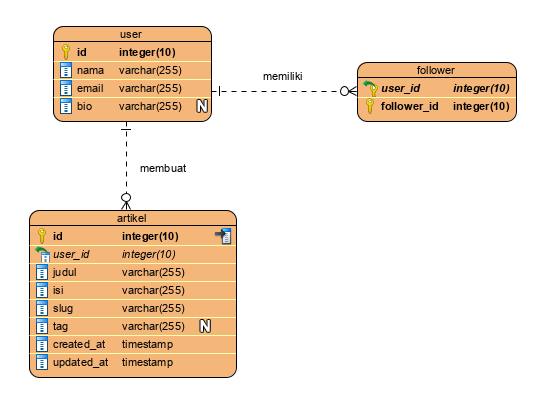
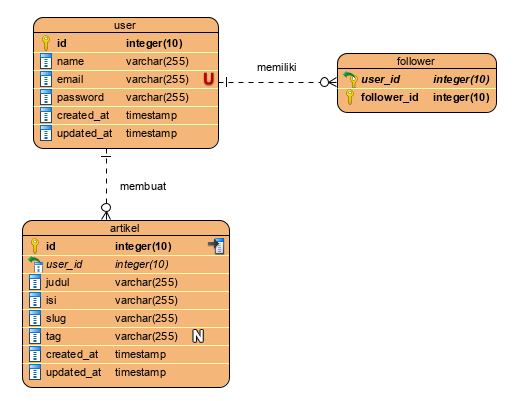
Create migration and model

Changed region(s): [[0.0311, 0.0299, 0.5914, 0.9875], [0.5914, 0.1197, 0.965, 0.3292]]

diff --git a/app/Http/Controllers/ArtikelController.php b/app/Http/Controllers/ArtikelController.php
@@ -1,0 +1,76 @@
+<?php
+
+namespace App\Http\Controllers;
+
+use App\Artikel;
+use Illuminate\Http\Request;
+
+class ArtikelController extends Controller
+{
+
+    public function index()
+    {
+        $data = Artikel::get_all();
+        return view('pages.index', compact('data'));
+    }
+    public function show($id)
+    {
+        $data = Artikel::get($id);
+        return view('pages.show', compact('data'));
+    }
+    public function destroy($id)
+    {
+        Artikel::delete($id);
+        return redirect('/artikel');
+    }
+    public function edit($id)
+    {
+        $data = Artikel::get($id);
+        return view('pages.edit_artikel', compact('data'));
+    }
+    public function update(Request $request, $id)
+    {
+        $data = $request->validate([
+            'judul' => ['required', 'max:255'],
+            'isi' => ['required', 'max:255'],
+            'tag' => ['required', 'max:255'],
+        ]);
+        $take = strtolower($data['judul']);
+        $split = explode(" ", $take);
+        $slug = $split[0];
+        if (count($split) > 1) {
+            for ($i = 1; $i < count($split); $i++) {
+                $slug .= "-" . $split[$i];
+            }
+        }
+        $data['slug'] = $slug;
+        $data = Artikel::edit($data, $id);
+        return redirect('/artikel');
+    }
+    public function create()
+    {
+        return view('pages/create_artikel');
+    }
+    public function store(Request $request)
+    {
+        $data = $request->validate([
+            'judul' => ['required', 'max:255'],
+            'isi' => ['required', 'max:255'],
+        ]);
+        $data = $request->all();
+        unset($data["_token"]);
+        $take = strtolower($data['judul']);
+        $split = explode(" ", $take);
+        $slug = $split[0];
+        if (count($split) > 1) {
+            for ($i = 1; $i < count($split); $i++) {
+                $slug .= "-" . $split[$i];
+            }
+        }
+        $data['slug'] = $slug;
+        $item = Artikel::store($data);
+        if ($item) {
+            return redirect('/artikel');
+        }
+    }
+}

diff --git a/routes/web.php b/routes/web.php
@@ -12,13 +12,13 @@
 */
 
 Route::get('/', function () {
-    return view('welcome');
+    return view('pages.img_show');
 });
 
-Route::get('/items/create', 'ItemController@create'); // menampilkan halaman form
-Route::post('/items', 'ItemController@store'); // menyimpan data
-Route::get('/items', 'ItemController@index'); // menampilkan semua
-Route::get('/items/{id}', 'ItemController@show'); // menampilkan detail item dengan id 
-Route::get('/items/{id}/edit', 'ItemController@edit'); // menampilkan form untuk edit item
-Route::put('/items/{id}', 'ItemController@update'); // menyimpan perubahan dari form edit
-Route::delete('/items/{id}', 'ItemController@destroy'); // menghapus data dengan id
+Route::get('/artikel', 'ArtikelController@index'); // menampilkan semua
+Route::get('/artikel/create', 'ArtikelController@create'); // menampilkan halaman form
+Route::post('/artikel', 'ArtikelController@store'); // menyimpan data
+Route::get('/artikel/{id}', 'ArtikelController@show'); // menampilkan detail Artikel dengan id
+Route::get('/artikel/{id}/edit', 'ArtikelController@edit'); // menampilkan form untuk edit Artikel
+Route::put('/artikel/{id}', 'ArtikelController@update'); // menyimpan perubahan dari form edit
+Route::delete('/artikel/{id}', 'ArtikelController@destroy'); // menghapus data dengan id

diff --git a/resources/views/pages/show.blade.php b/resources/views/pages/show.blade.php
@@ -1,0 +1,30 @@
+@extends('layouts.master')
+
+@section('content')
+    @foreach($data as $key => $value)
+    <div class="card" style="width: 18rem;">
+        <div class="card-body">
+        <h5 class="card-title">Judul: {{$value->judul}}</h5>
+          <h6 class="card-subtitle mb-2 text-muted">Slug: {{$value->slug}}</h6>
+          <p class="card-text">Isi: {{$value->isi}}</p>
+          <h6 class="card-subtitle mb-2 text-muted">Tag :</h6>
+          <?php $split = explode("-", $value->tag);
+          $tag = " ";
+                for ($i=0; $i <count($split) ; $i++) {
+                    $tag = $split[$i];
+                    ?>
+          <span class="badge badge-pill badge-success">{{$tag}}</span>
+       <?php } ?>
+        </div>
+      </div>
+      <form action="/artikel/{{$value->id}}/edit" method="GET">
+        @csrf
+        <button type="submit" class="btn btn-primary">Edit</button>
+      </form>
+      <form action="/artikel/{{$value->id}}" method="POST">
+        @method('DELETE')
+        @csrf
+        <button type="submit" class="btn btn-danger">Delete</button>
+      </form>
+    @endforeach
+@endsection

diff --git a/resources/views/pages/edit_artikel.blade.php b/resources/views/pages/edit_artikel.blade.php
@@ -1,0 +1,29 @@
+@extends('layouts.master')
+
+@section('content')
+@foreach ($data as $key => $value)
+<form action= "/artikel/{{$value->id}}" method= "POST">
+  @method('PUT')
+  @csrf
+  <div class="form-group">
+    <label for="judul">Judul</label>
+  <input type="text" class="form-control" value="{{$value->judul}}"  id="judul" name="judul">
+  </div>
+  <div class="form-group">
+    <label for="isi">Isi</label>
+    <input type="text" class="form-control" value="{{$value->isi}}" id="isi" name="isi">
+</div>
+<div class="form-group">
+    <label for="tag">Tag (Gunakan "-" sebagai pemisah jika tag lebih dari 1)</label>
+    <input type="text" class="form-control" value="{{$value->tag}}"  id="tag" name="tag">
+    @if (count($errors) > 0)
+    <span class="badge badge-pill badge-danger">
+        Max 255 Character for each Judul, Isi dan tag
+    </span>
+    @endif
+</div>
+<input type="text" class="form-control" value="{{$value->id}}"  id="id" name="id" hidden>
+  <button type="submit" class="btn btn-primary">Submit</button>
+</form>
+@endforeach
+@endsection

diff --git a/resources/views/pages/index.blade.php b/resources/views/pages/index.blade.php
@@ -1,0 +1,41 @@
+@extends('layouts.master')
+
+@section('content')
+<table class="table">
+    <thead>
+        <tr>
+          <th>Id</th>
+          <th>Judul</th>
+          <th>Isi</th>
+          <th><a href="/artikel/create" class="btn btn-success">Add New Artikel</a></th>
+        </tr>
+      </thead>
+    <tbody>
+    @foreach($data as $key => $value)
+      <tr>
+      <td>{{$value->id}}</td>
+      <td>{{$value->judul}}</td>
+      <td>{{$value->isi}}</td>
+      <form action="/artikel/{{$value->id}}" method="GET">
+        @csrf
+        <td>
+          <input name = "id" value="{{$value->id}}" hidden>
+          <button type="submit" class="badge-pill badge-primary">detail</button>
+        </td>
+      </form>
+    </tr>
+    @endforeach
+    </tbody>
+  </table>
+@endsection
+
+@push('scripts')
+<script>
+  Swal.fire({
+      title: 'Berhasil!',
+      text: 'Memasangkan script sweet alert',
+      icon: 'success',
+      confirmButtonText: 'Cool'
+  })
+</script>
+@endpush

diff --git a/database/migrations/2020_07_05_130351_create_artikels_table.php b/database/migrations/2020_07_05_130351_create_artikels_table.php
@@ -1,0 +1,37 @@
+<?php
+
+use Illuminate\Database\Migrations\Migration;
+use Illuminate\Database\Schema\Blueprint;
+use Illuminate\Support\Facades\Schema;
+
+class CreateArtikelsTable extends Migration
+{
+    /**
+     * Run the migrations.
+     *
+     * @return void
+     */
+    public function up()
+    {
+        Schema::create('artikels', function (Blueprint $table) {
+            $table->bigIncrements('id');
+            $table->unsignedBigInteger('user_id');
+            $table->string('judul');
+            $table->string('isi');
+            $table->string('slug');
+            $table->string('tag');
+            $table->timestamps();
+            $table->foreign('user_id')->references('id')->on('users');
+        });
+    }
+
+    /**
+     * Reverse the migrations.
+     *
+     * @return void
+     */
+    public function down()
+    {
+        Schema::dropIfExists('artikels');
+    }
+}

diff --git a/resources/views/pages/create_artikel.blade.php b/resources/views/pages/create_artikel.blade.php
@@ -1,0 +1,25 @@
+@extends('layouts.master')
+
+@section('content')
+<form action= "/artikel" method= "POST">
+    @csrf
+    <div class="form-group">
+      <label for="judul">Judul</label>
+      <input type="text" class="form-control"  id="judul" name="judul">
+    </div>
+    <div class="form-group">
+      <label for="isi">Isi</label>
+      <input type="text" class="form-control"  id="isi" name="isi">
+    </div>
+    <div class="form-group">
+        <label for="tag">Tag (Gunakan "-" sebagai pemisah jika tag lebih dari 1)</label>
+        <input type="text" class="form-control"  id="tag" name="tag">
+        @if (count($errors) > 0)
+        <span class="badge badge-pill badge-danger">
+            Max 255 Character for each Judul, Isi dan tag
+        </span>
+      @endif
+    </div>
+    <button type="submit" class="btn btn-primary">Submit</button>
+  </form>
+  @endsection

diff --git a/app/Artikel.php b/app/Artikel.php
@@ -1,0 +1,35 @@
+<?php
+
+namespace App;
+
+use Illuminate\Database\Eloquent\Model;
+use Illuminate\Support\Facades\DB;
+
+class Artikel extends Model
+{
+    public static function get_all()
+    {
+        $data = DB::table('artikel')->get();
+        return $data;
+    }
+    public static function get($id)
+    {
+        $data = DB::table('artikel')->where('id', '=', $id)->get();
+        return $data;
+    }
+    public static function delete($id)
+    {
+        $data = DB::table('artikel')->where('id', '=', $id)->delete();
+        return $data;
+    }
+    public static function store($data)
+    {
+        $new_data = DB::table('artikel')->insert($data);
+        return $new_data;
+    }
+    public static function edit($data, $id)
+    {
+        $data2 = DB::table('artikel')->where('id', '=', $id)->update($data);
+        return $data2;
+    }
+}

diff --git a/database/migrations/2020_07_05_130558_create_followers_table.php b/database/migrations/2020_07_05_130558_create_followers_table.php
@@ -1,0 +1,34 @@
+<?php
+
+use Illuminate\Database\Migrations\Migration;
+use Illuminate\Database\Schema\Blueprint;
+use Illuminate\Support\Facades\Schema;
+
+class CreateFollowersTable extends Migration
+{
+    /**
+     * Run the migrations.
+     *
+     * @return void
+     */
+    public function up()
+    {
+        Schema::create('followers', function (Blueprint $table) {
+            $table->unsignedBigInteger('user_id');
+            $table->unsignedBigInteger('follower_id');
+            $table->timestamps();
+            $table->primary(['user_id', 'follower_id']);
+            $table->foreign('user_id')->references('id')->on('users');
+        });
+    }
+
+    /**
+     * Reverse the migrations.
+     *
+     * @return void
+     */
+    public function down()
+    {
+        Schema::dropIfExists('followers');
+    }
+}

diff --git a/resources/views/pages/img_show.blade.php b/resources/views/pages/img_show.blade.php
@@ -1,0 +1,10 @@
+@extends('layouts.master')
+
+@section('content')
+<div class="text-center">
+  <h1 style="color: black"> Gambar ERD</h1>
+  <img src="{{asset('images/ERD.png')}}" class="img-fluid" alt="Responsive image">
+</div>
+<h4 style="color: black"> *Untuk implementasi saat ini pada tabel artikel tidak ada kolom user_id karena tidak diperlukan</h4>
+<h4 style="color: black"> *Jika implementasi berikutnya menggunakan user maka kolom user_id akan dipakai</h4>
+@endsection

diff --git a/app/Http/Controllers/FollowerController.php b/app/Http/Controllers/FollowerController.php
@@ -1,0 +1,10 @@
+<?php
+
+namespace App\Http\Controllers;
+
+use Illuminate\Http\Request;
+
+class FollowerController extends Controller
+{
+    //
+}

diff --git a/app/Follower.php b/app/Follower.php
@@ -1,0 +1,10 @@
+<?php
+
+namespace App;
+
+use Illuminate\Database\Eloquent\Model;
+
+class Follower extends Model
+{
+    //
+}
